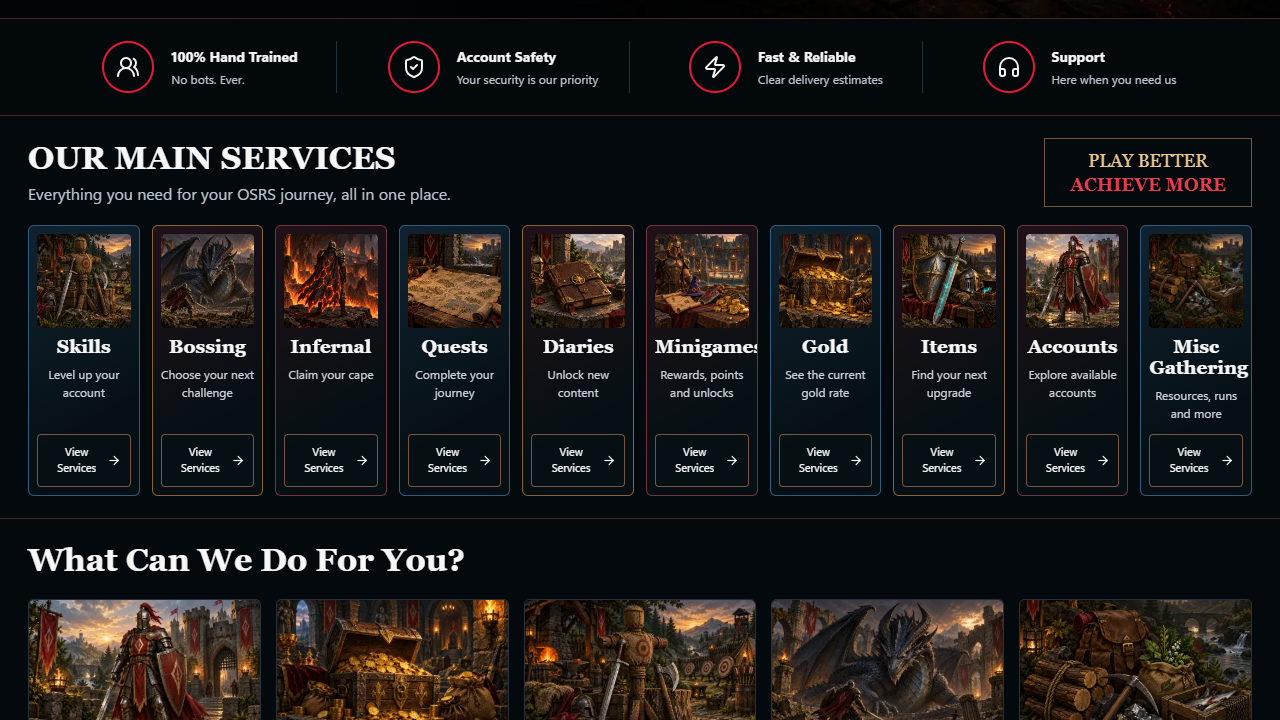
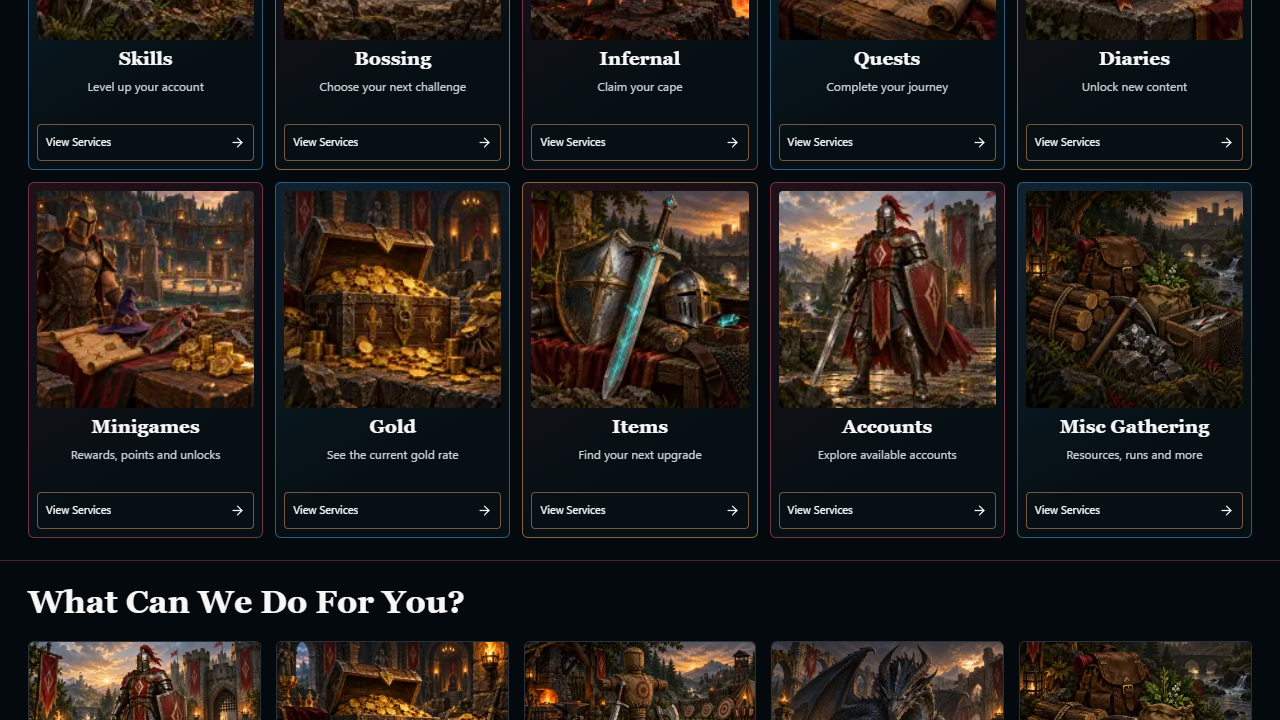
Keep homepage service names visible at narrower desktop widths

diff --git a/src/app/(public)/page.tsx b/src/app/(public)/page.tsx
@@ -220,7 +220,7 @@ export default async function Homepage() {
                     src={serviceArtwork(href).src}
                     alt={serviceArtwork(href).alt}
                     fill
-                    sizes="(max-width: 600px) 50vw, (max-width: 900px) 33vw, (max-width: 1279px) 20vw, 180px"
+                    sizes="(max-width: 600px) 50vw, (max-width: 900px) 33vw, (max-width: 1599px) 20vw, 160px"
                     className="object-cover"
                   />
                 </span>

diff --git a/src/app/reference-storefront.css b/src/app/reference-storefront.css
@@ -1094,7 +1094,7 @@
 }
 .reference-home-service-grid {
   display: grid;
-  grid-template-columns: repeat(10, minmax(0, 1fr));
+  grid-template-columns: repeat(5, minmax(0, 1fr));
   gap: 12px;
 }
 .reference-home-service {
@@ -1875,6 +1875,9 @@
   margin-bottom: 0;
 }
 @media (min-width: 1600px) {
+  .reference-home-service-grid {
+    grid-template-columns: repeat(10, minmax(0, 1fr));
+  }
   .reference-header {
     padding-inline: max(28px, calc((100vw - 1560px) / 2));
   }

diff --git a/tests/e2e/minigames-update.spec.ts b/tests/e2e/minigames-update.spec.ts
@@ -12,6 +12,11 @@ test("homepage exposes Minigames without horizontal overflow", async ({
   await expect(card).toBeVisible();
   await expect(card).toHaveAttribute("href", "/minigames");
   expect(
+    await card
+      .getByRole("heading", { name: "Minigames", exact: true })
+      .evaluate((heading) => heading.scrollWidth <= heading.clientWidth),
+  ).toBe(true);
+  expect(
     await page.evaluate(
       () =>
         document.documentElement.scrollWidth <=

diff --git a/docs/MINIGAMES-COMPLETION-REPORT.md b/docs/MINIGAMES-COMPLETION-REPORT.md
@@ -193,3 +193,5 @@ The legacy launch-template and Task 016 privacy scanners now permit only blank S
 PR 26: https://github.com/itwillbedope/osrs-services-app/pull/26. Initial commit f359a36 is remote. Latest verified fixes are committed locally as 327b5b8. GitHub refused the final push and PR update with "You must verify your email address" for the authenticated Faizan279 account. The initial finalization run passed frozen dependency installation, migrations, repeated seeds, unit/lint/type/format/build and payment fixture behavior, but its older privacy scanner rejected newly authorized Stripe variable names. That scanner is corrected and passes locally; the final commit must be pushed and CI rerun before merge. Base SHA upgrade validation passed. Production has not been updated by this task.
 
 Hostinger redirects to sign-in because the existing session expired. The user must verify their GitHub email and sign in to Hostinger before delivery can finish. No credentials were requested in chat. The disposable local QA owner is now disabled, its sessions revoked, and its temporary credential file removed.
+
+The homepage grid uses five columns at narrower desktop widths and ten above 1600px. This prevents the Minigames heading from clipping; the production build and both browser tests, including heading-width assertions, passed after the adjustment. Final fixes remain locally committed pending GitHub email verification.
